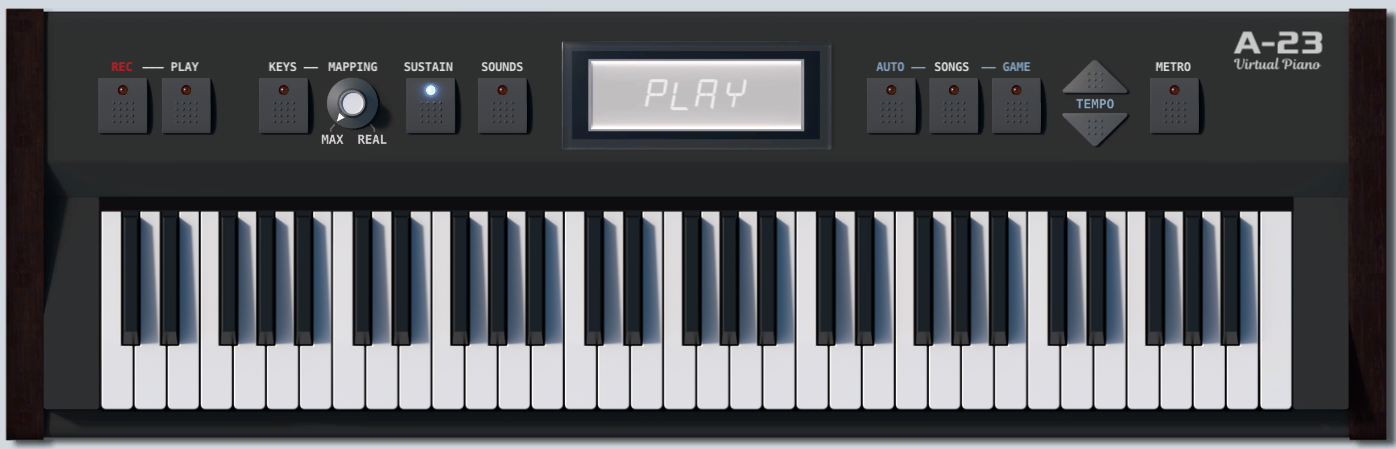
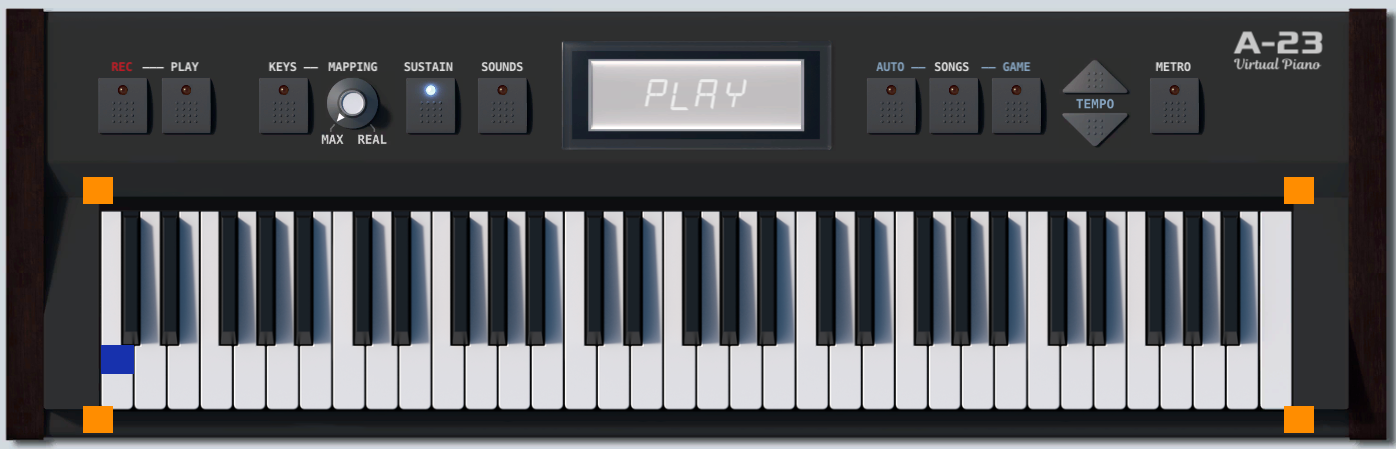
added functionality to detect all keys

diff --git a/detect_board.py b/detect_board.py
@@ -1,14 +1,28 @@
 import numpy as np
 import cv2
 
+def rectify(h):
+    h = h.reshape((4,2))
+    hnew = np.zeros((4,2))
+
+    add = h.sum(1)
+    hnew[0] = h[np.argmin(add)]
+    hnew[2] = h[np.argmax(add)]
+
+    diff = np.diff(h,axis=1)
+    hnew[1] = h[np.argmin(diff)]
+    hnew[3] = h[np.argmax(diff)]
+
+    return hnew
+
+
 def get_corners(frame):
 
-    color_img = cv2.imread(frame)
-    imcopy = color_img.copy()
-
+    imcopy = frame.copy()
+    
     # Convert BGR to HSV
     hsv = cv2.cvtColor(imcopy, cv2.COLOR_BGR2HSV)
-    # define range of blue color in HSV
+    # define range of orange color in HSV
     lower_orange = np.array([0,100,100])
     upper_orange = np.array([50,255,255])
     # Threshold the HSV image to get only orange colors
@@ -32,5 +46,201 @@ def get_corners(frame):
     
     moments = [cv2.moments(c) for c in largest_convex_hulls]
     centers = [(int(m['m10']/m['m00']), int(m['m01']/m['m00'])) for m in moments if m['m00'] != 0]
-    
+
+    centers = np.array(centers)
+    centers = rectify(centers)
+
     return centers
+
+def get_C_key(frame,corners):
+
+    imcopy = frame.copy()
+
+    # Convert BGR to HSV
+    hsv = cv2.cvtColor(imcopy, cv2.COLOR_BGR2HSV)
+    # define range of blue color in HSV
+    lower_blue = np.array([150,0,0])
+    upper_blue = np.array([255,100,100])
+    # Threshold the HSV image to get only blue colors
+    mask = cv2.inRange(imcopy, lower_blue, upper_blue)
+    imcopy = cv2.bitwise_and(imcopy,imcopy, mask=mask)
+
+    # Get thresh into the correct cv2 readable format
+    ret,thresh = cv2.threshold(imcopy, 0, 1, cv2.THRESH_BINARY)
+    thresh = cv2.cvtColor(thresh, cv2.COLOR_RGB2GRAY)
+    # Find all the contours in the image
+    _, contours, _ = cv2.findContours(thresh, cv2.RETR_EXTERNAL, cv2.CHAIN_APPROX_SIMPLE)
+    # Get the convex hull of all those contours
+    convex_hulls = np.array(contours)
+    # Find the area of all those convex hulls so we can take the largest
+    contour_areas = [cv2.contourArea(c) for c in convex_hulls]
+    # Get the indices of the largest contours. 
+    largest_contour_idxes = np.array(contour_areas).argsort()[-1:][::-1]
+    # Get the largest convex hull
+    largest_convex_hulls = [convex_hulls[i] for i in largest_contour_idxes]
+    # TODO: Ensure the convex hull are a minimum area
+
+    # approximate the contour with a quadrangle
+    peri = cv2.arcLength(largest_convex_hulls[0],True)
+    approx = cv2.approxPolyDP(largest_convex_hulls[0],0.02*peri,True)
+    approx = rectify(approx)
+
+    # get midpoints of corners
+    left_mdpt = [(corners[0,0]+corners[3,0])/2,(corners[0,1]+corners[3,1])/2]
+    right_mdpt = [(corners[1,0]+corners[2,0])/2,(corners[1,1]+corners[2,1])/2]
+    top_mdpt = [(corners[0,0]+corners[1,0])/2,(corners[0,1]+corners[1,1])/2]
+    bot_mdpt = [(corners[2,0]+corners[3,0])/2,(corners[2,1]+corners[3,1])/2]
+    # get bounding coordinates
+    board_left_x = left_mdpt[0]
+    board_right_x = right_mdpt[0]
+    board_top_y = top_mdpt[1]
+    board_bot_y = bot_mdpt[1]
+
+    # get top line of box which will be bottom of black key
+    top = (approx[0,1]+approx[1,1])/2
+    
+    # get width of box, which will be width of a white key
+    # black keys will be 2/3 as wide as a white key
+    left_mdpt = [(approx[0,0]+approx[3,0])/2,(approx[0,1]+approx[3,1])/2]
+    right_mdpt = [(approx[1,0]+approx[2,0])/2,(approx[1,1]+approx[2,1])/2]
+    left_x = left_mdpt[0]
+    right_x = right_mdpt[0]
+    width = right_x - left_x
+
+    # get corners of key
+    ckey = [[left_x,board_top_y],[right_x,board_top_y],[right_x,board_bot_y],[left_x,board_bot_y]]
+
+    return(ckey,width,top,[board_left_x,board_right_x])
+
+def remainder_black_keys(remainder,higher):
+    if higher:
+        if remainder == 1:
+            return 1
+        elif remainder == 2:
+            return 2
+        elif remainder == 3:
+            return 2
+        elif remainder == 4:
+            return 3
+        elif remainder == 5:
+            return 4
+        elif remainder == 6:
+            return 5
+        else:
+            return 0
+    else:
+        if remainder == 1:
+            return 0
+        elif remainder == 2:
+            return 1
+        elif remainder == 3:
+            return 2
+        elif remainder == 4:
+            return 3
+        elif remainder == 5:
+            return 3
+        elif remainder == 6:
+            return 4
+        else:
+            return 0
+
+def get_all_keys(frame,corners):
+
+    # get the C key
+    C_key_output = get_C_key(frame,corners)
+    ckey = C_key_output[0]
+    key_width = C_key_output[1]
+    black_bot = C_key_output[2]
+    board_bounds = C_key_output[3]
+
+    # extrapolate positions of other keys
+    num_higher_white_keys = np.around((board_bounds[1] - ckey[1][0])/key_width,decimals=0)
+    higher_remainder = num_higher_white_keys % 7
+    higher_remainder = remainder_black_keys(higher_remainder,True)
+    num_higher_black_keys = (num_higher_white_keys//7)*5
+    keys = [(ckey[0][0],ckey)]
+
+    # white keys
+    repeats = np.arange(num_higher_white_keys)
+    higher_keys = [ (ckey[0][0]+shift*key_width,[[ckey[0][0]+shift*key_width,ckey[0][1]],[ckey[1][0]+shift*key_width,ckey[1][1]],[ckey[2][0]+shift*key_width,ckey[2][1]],[ckey[3][0]+shift*key_width,ckey[3][1]]]) for shift in repeats ]
+
+    # black keys
+    black_keys = []
+    key = [[ckey[0][0]+2*key_width/3,ckey[0][1]],[ckey[1][0]+key_width/3,ckey[1][1]],[ckey[2][0]+2*key_width/3,black_bot],[ckey[3][0]+key_width/3,black_bot]]
+    black_keys.append((key[0][0],key))
+    last_key = black_keys[-1][1]
+    key = [[last_key[0][0]+key_width,last_key[0][1]],[last_key[1][0]+key_width,last_key[1][1]],[last_key[2][0]+key_width,last_key[2][1]],[last_key[3][0]+key_width,last_key[3][1]]]
+    black_keys.append((key[0][0],key))
+    last_key = black_keys[-1][1]
+    key = [[last_key[0][0]+2*key_width,last_key[0][1]],[last_key[1][0]+2*key_width,last_key[1][1]],[last_key[2][0]+2*key_width,last_key[2][1]],[last_key[3][0]+2*key_width,last_key[3][1]]]
+    black_keys.append((key[0][0],key))
+    last_key = black_keys[-1][1]
+    key = [[last_key[0][0]+key_width,last_key[0][1]],[last_key[1][0]+key_width,last_key[1][1]],[last_key[2][0]+key_width,last_key[2][1]],[last_key[3][0]+key_width,last_key[3][1]]]
+    black_keys.append((key[0][0],key))
+    last_key = black_keys[-1][1]
+    key = [[last_key[0][0]+key_width,last_key[0][1]],[last_key[1][0]+key_width,last_key[1][1]],[last_key[2][0]+key_width,last_key[2][1]],[last_key[3][0]+key_width,last_key[3][1]]]
+    black_keys.append((key[0][0],key))
+    for i in range(int(num_higher_black_keys/5-1)):
+        last_key = black_keys[-1][1]
+        key = [[last_key[0][0]+2*key_width,last_key[0][1]],[last_key[1][0]+2*key_width,last_key[1][1]],[last_key[2][0]+2*key_width,last_key[2][1]],[last_key[3][0]+2*key_width,last_key[3][1]]]
+        black_keys.append((key[0][0],key))
+        last_key = black_keys[-1][1]
+        key = [[last_key[0][0]+key_width,last_key[0][1]],[last_key[1][0]+key_width,last_key[1][1]],[last_key[2][0]+key_width,last_key[2][1]],[last_key[3][0]+key_width,last_key[3][1]]]
+        black_keys.append((key[0][0],key))
+        last_key = black_keys[-1][1]
+        key = [[last_key[0][0]+2*key_width,last_key[0][1]],[last_key[1][0]+2*key_width,last_key[1][1]],[last_key[2][0]+2*key_width,last_key[2][1]],[last_key[3][0]+2*key_width,last_key[3][1]]]
+        black_keys.append((key[0][0],key))
+        last_key = black_keys[-1][1]
+        key = [[last_key[0][0]+key_width,last_key[0][1]],[last_key[1][0]+key_width,last_key[1][1]],[last_key[2][0]+key_width,last_key[2][1]],[last_key[3][0]+key_width,last_key[3][1]]]
+        black_keys.append((key[0][0],key))
+        last_key = black_keys[-1][1]
+        key = [[last_key[0][0]+key_width,last_key[0][1]],[last_key[1][0]+key_width,last_key[1][1]],[last_key[2][0]+key_width,last_key[2][1]],[last_key[3][0]+key_width,last_key[3][1]]]
+        black_keys.append((key[0][0],key))
+    count = 0
+    for i in range(1):
+        if count >= higher_remainder:
+            break
+        last_key = black_keys[-1][1]
+        key = [[last_key[0][0]+2*key_width,last_key[0][1]],[last_key[1][0]+2*key_width,last_key[1][1]],[last_key[2][0]+2*key_width,last_key[2][1]],[last_key[3][0]+2*key_width,last_key[3][1]]]
+        black_keys.append((key[0][0],key))
+        count = count + 1
+        if count >= higher_remainder:
+            break
+        last_key = black_keys[-1][1]
+        key = [[last_key[0][0]+key_width,last_key[0][1]],[last_key[1][0]+key_width,last_key[1][1]],[last_key[2][0]+key_width,last_key[2][1]],[last_key[3][0]+key_width,last_key[3][1]]]
+        black_keys.append((key[0][0],key))
+        count = count + 1
+        if count >= higher_remainder:
+            break
+        last_key = black_keys[-1][1]
+        key = [[last_key[0][0]+2*key_width,last_key[0][1]],[last_key[1][0]+2*key_width,last_key[1][1]],[last_key[2][0]+2*key_width,last_key[2][1]],[last_key[3][0]+2*key_width,last_key[3][1]]]
+        black_keys.append((key[0][0],key))
+        count = count + 1
+        if count >= higher_remainder:
+            break
+        last_key = black_keys[-1][1]
+        key = [[last_key[0][0]+key_width,last_key[0][1]],[last_key[1][0]+key_width,last_key[1][1]],[last_key[2][0]+key_width,last_key[2][1]],[last_key[3][0]+key_width,last_key[3][1]]]
+        black_keys.append((key[0][0],key))
+        count = count + 1
+        if count >= higher_remainder:
+            break
+        last_key = black_keys[-1][1]
+        key = [[last_key[0][0]+key_width,last_key[0][1]],[last_key[1][0]+key_width,last_key[1][1]],[last_key[2][0]+key_width,last_key[2][1]],[last_key[3][0]+key_width,last_key[3][1]]]
+        black_keys.append((key[0][0],key))
+
+    # sort by left x coordinate
+    for black_key in black_keys:
+        higher_keys.append(black_key)
+    higher_keys.sort()
+    key_boxes = [x for y,x in higher_keys]
+    notes = range(len(key_boxes))
+    key_dict = dict(zip(notes,key_boxes))
+
+    return key_dict
+
+def get_board(frame):
+
+    corners = get_corners(image)
+    key_dict = get_all_keys(image,corners)
+
+    return key_dict
